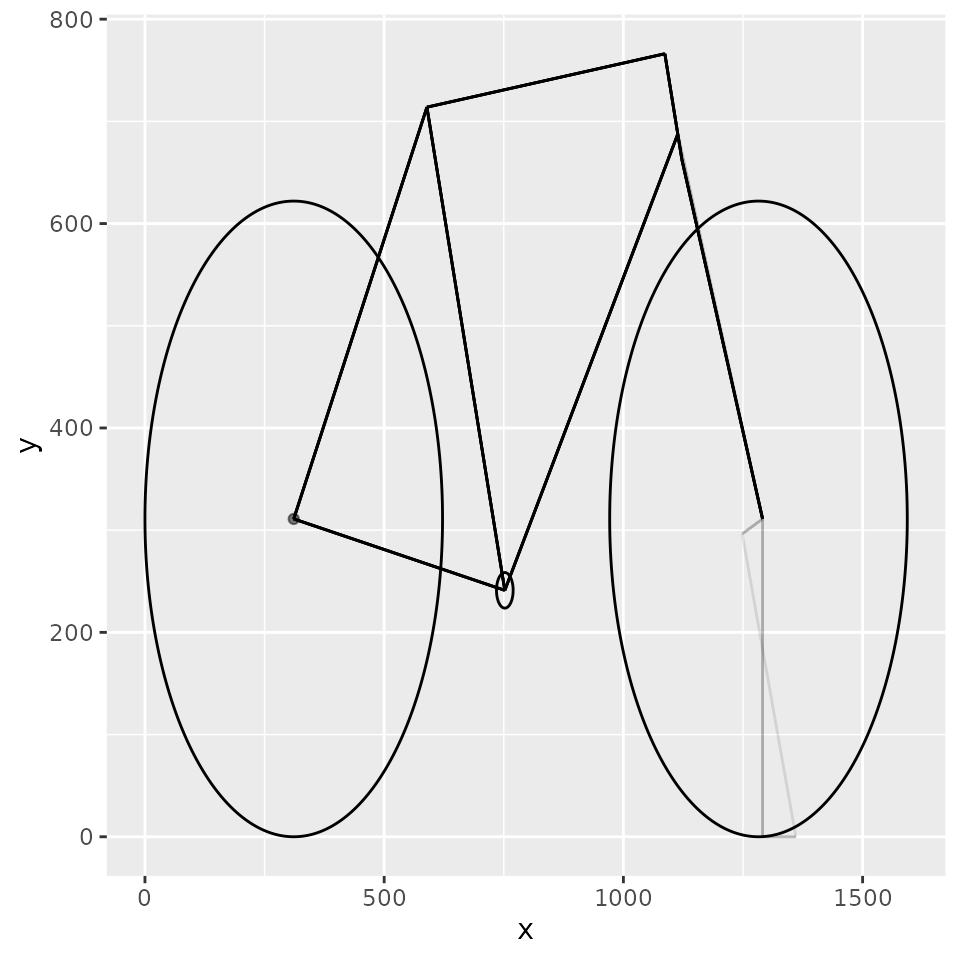
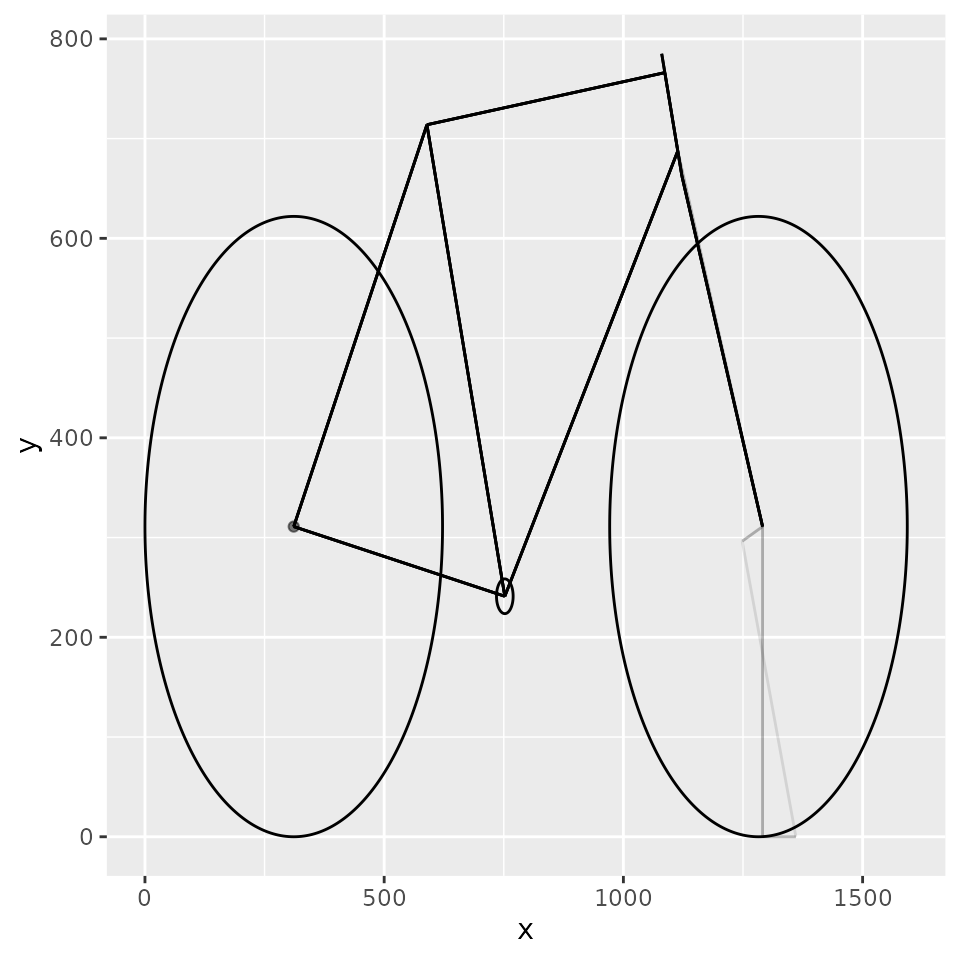
Built site for bicycle: 0.0.0.9000@5c9bf0c

diff --git a/articles/bicycle.html b/articles/bicycle.html
@@ -264,7 +264,8 @@
   <span class="fu"><a href="../reference/find_ht_extension_and_add_true_fork.html">find_ht_extension_and_add_true_fork</a></span><span class="op">(</span><span class="op">)</span>
 <span class="co">#&gt; Pythagoras! 1</span>
 <span class="co">#&gt; h is af 1</span>
-<span class="va">df_slantsix</span> <span class="op"><a href="https://magrittr.tidyverse.org/reference/pipe.html">%&gt;%</a></span> <span class="fu">knitr</span><span class="fu">::</span><span class="fu"><a href="https://rdrr.io/pkg/knitr/man/kable.html">kable</a></span><span class="op">(</span>digits <span class="op">=</span> <span class="fl">0</span><span class="op">)</span></code></pre></div>
+<span class="va">df_slantsix</span> <span class="op"><a href="https://magrittr.tidyverse.org/reference/pipe.html">%&gt;%</a></span> 
+  <span class="fu">knitr</span><span class="fu">::</span><span class="fu"><a href="https://rdrr.io/pkg/knitr/man/kable.html">kable</a></span><span class="op">(</span>digits <span class="op">=</span> <span class="fl">0</span><span class="op">)</span></code></pre></div>
 <table class="table">
 <colgroup>
 <col width="7%">
@@ -344,17 +345,26 @@
 </tr>
 </tbody>
 </table>
+<div id="welded-frames" class="section level2">
+<h2 class="hasAnchor">
+<a href="#welded-frames" class="anchor"></a>Welded frames</h2>
+<p>In a lugged frame the top of the head tube is where the top of the TT-HT lug ring is. The top of the seat tube is where the top of the ST-TT lug is. By contrast, in welded frames you have some discretion. Though the full length of the head tube is derived, how much of it you set aside for extending it above the point where the TT meets it is up to you. The same goes for the seat tube. How much height you add to the head tube matters because it affects the frame reach calculation. Let’s pretend that we want to the head tube to extend 20 mm above the center of the top tube joint:</p>
+<div class="sourceCode" id="cb6"><pre class="downlit sourceCode r">
+<code class="sourceCode R"><span class="va">df_slantsix</span> <span class="op">&lt;-</span> <span class="va">df_slantsix</span> <span class="op"><a href="https://magrittr.tidyverse.org/reference/pipe.html">%&gt;%</a></span> 
+  <span class="fu"><a href="../reference/add_tube_extension.html">add_tube_extension</a></span><span class="op">(</span>tube <span class="op">=</span> <span class="st">'ht_triangle'</span>, t_extension <span class="op">=</span> <span class="fl">20</span><span class="op">)</span></code></pre></div>
+</div>
 <div id="completing-the-picture" class="section level2">
 <h2 class="hasAnchor">
 <a href="#completing-the-picture" class="anchor"></a>Completing the picture</h2>
 <p>Here’s what the frame looks like now:</p>
-<div class="sourceCode" id="cb6"><pre class="downlit sourceCode r">
+<div class="sourceCode" id="cb7"><pre class="downlit sourceCode r">
 <code class="sourceCode R"><span class="va">df_slantsix</span> <span class="op"><a href="https://magrittr.tidyverse.org/reference/pipe.html">%&gt;%</a></span> 
   <span class="fu"><a href="../reference/draw_the_bicycle.html">draw_the_bicycle</a></span><span class="op">(</span><span class="op">)</span> <span class="op"><a href="https://magrittr.tidyverse.org/reference/pipe.html">%&gt;%</a></span> 
   <span class="fu"><a href="../reference/add_the_fork_rake_to_the_drawing.html">add_the_fork_rake_to_the_drawing</a></span><span class="op">(</span><span class="va">df_slantsix</span><span class="op">)</span> <span class="op"><a href="https://magrittr.tidyverse.org/reference/pipe.html">%&gt;%</a></span> 
   <span class="fu"><a href="../reference/draw_the_true_fork.html">draw_the_true_fork</a></span><span class="op">(</span><span class="va">df_slantsix</span><span class="op">)</span> <span class="op"><a href="https://magrittr.tidyverse.org/reference/pipe.html">%&gt;%</a></span> 
   <span class="fu"><a href="../reference/add_the_wheels.html">add_the_wheels</a></span><span class="op">(</span><span class="va">df_slantsix</span><span class="op">)</span> <span class="op"><a href="https://magrittr.tidyverse.org/reference/pipe.html">%&gt;%</a></span> 
   <span class="fu"><a href="../reference/add_the_fork_trail.html">add_the_fork_trail</a></span><span class="op">(</span><span class="va">df_slantsix</span><span class="op">)</span> <span class="op"><a href="https://magrittr.tidyverse.org/reference/pipe.html">%&gt;%</a></span> 
+  <span class="fu"><a href="../reference/add_the_tube_extensions_to_the_drawing.html">add_the_tube_extensions_to_the_drawing</a></span><span class="op">(</span><span class="va">df_slantsix</span><span class="op">)</span> <span class="op"><a href="https://magrittr.tidyverse.org/reference/pipe.html">%&gt;%</a></span> 
   <span class="fu"><a href="https://rdrr.io/r/base/print.html">print</a></span><span class="op">(</span><span class="op">)</span></code></pre></div>
 <p><img src="bicycle_files/figure-html/big_picture-1.png" width="480"></p>
 </div>
@@ -379,7 +389,7 @@
 <h1 class="hasAnchor">
 <a href="#putting-it-all-together" class="anchor"></a>Putting it all together</h1>
 <p>A wrapper that will return a tibble of frame dimensions, a named list of additional metrics of interest, and a picture would be nice, because it would allow tight control over the inputs, so we don’t run the risk that we enter one HT angle in one place, and another somewhere else. That is what <code><a href="../reference/big_bicycle.html">big_bicycle()</a></code> does.</p>
-<div class="sourceCode" id="cb7"><pre class="downlit sourceCode r">
+<div class="sourceCode" id="cb8"><pre class="downlit sourceCode r">
 <code class="sourceCode R"><span class="va">goods</span> <span class="op">&lt;-</span> <span class="fu"><a href="../reference/big_bicycle.html">big_bicycle</a></span><span class="op">(</span><span class="op">)</span>
 <span class="co">#&gt; Joining, by = "st_triangle"</span>
 <span class="co">#&gt; Pythagoras! 1</span>
@@ -390,7 +400,7 @@
 </li>
 <li>the CS length shown here is the length of the projection (shadow) onto the frame plane; the chain stays stick out of the bottom bracket at an angle that is suitably wide so you can fit a rear wheel between the dropouts; because of this angle, a 450 mm chain stay will show up in the table below as a somewhat lower value in the row labeled <code>cs</code> – the wider the angle, the greater the difference.</li>
 </ul>
-<div class="sourceCode" id="cb8"><pre class="downlit sourceCode r">
+<div class="sourceCode" id="cb9"><pre class="downlit sourceCode r">
 <code class="sourceCode R"><span class="va">goods</span><span class="op">$</span><span class="va">data</span> <span class="op"><a href="https://magrittr.tidyverse.org/reference/pipe.html">%&gt;%</a></span> 
   <span class="fu">tibble</span><span class="fu">::</span><span class="fu"><a href="https://tibble.tidyverse.org/reference/add_column.html">add_column</a></span><span class="op">(</span>dim <span class="op">=</span> <span class="fu"><a href="https://rdrr.io/r/base/names.html">names</a></span><span class="op">(</span><span class="va">.</span><span class="op">$</span><span class="va">st_triangle</span><span class="op">)</span><span class="op">)</span> <span class="op"><a href="https://magrittr.tidyverse.org/reference/pipe.html">%&gt;%</a></span> 
   <span class="fu">tidyr</span><span class="fu">::</span><span class="fu"><a href="https://tidyr.tidyverse.org/reference/pivot_longer.html">pivot_longer</a></span><span class="op">(</span><span class="op">!</span><span class="va">dim</span><span class="op">)</span> <span class="op"><a href="https://magrittr.tidyverse.org/reference/pipe.html">%&gt;%</a></span> 
@@ -417,11 +427,11 @@
 <span class="co">#&gt; 12 st       500</span>
 <span class="co">#&gt; 13 tt       500</span></code></pre></div>
 <p>These lengths are represented graphically here:</p>
-<div class="sourceCode" id="cb9"><pre class="downlit sourceCode r">
+<div class="sourceCode" id="cb10"><pre class="downlit sourceCode r">
 <code class="sourceCode R"><span class="fu"><a href="https://rdrr.io/r/base/print.html">print</a></span><span class="op">(</span><span class="va">goods</span><span class="op">$</span><span class="va">picture</span><span class="op">)</span></code></pre></div>
 <p><img src="bicycle_files/figure-html/show_final_picture-1.png" width="480"></p>
 <p>And here are the other sundry metrics:</p>
-<div class="sourceCode" id="cb10"><pre class="downlit sourceCode r">
+<div class="sourceCode" id="cb11"><pre class="downlit sourceCode r">
 <code class="sourceCode R"><span class="fu">tibble</span><span class="fu">::</span><span class="fu"><a href="https://tibble.tidyverse.org/reference/tibble.html">tibble</a></span><span class="op">(</span>name <span class="op">=</span> <span class="fu"><a href="https://rdrr.io/r/base/names.html">names</a></span><span class="op">(</span><span class="va">goods</span><span class="op">$</span><span class="va">metrics</span><span class="op">)</span>, 
                value <span class="op">=</span> <span class="va">goods</span><span class="op">$</span><span class="va">metrics</span><span class="op">)</span> <span class="op"><a href="https://magrittr.tidyverse.org/reference/pipe.html">%&gt;%</a></span> 
   <span class="fu">knitr</span><span class="fu">::</span><span class="fu"><a href="https://rdrr.io/pkg/knitr/man/kable.html">kable</a></span><span class="op">(</span><span class="op">)</span></code></pre></div>
@@ -463,13 +473,21 @@
 <td align="left">Effective top tube length</td>
 <td align="right">500</td>
 </tr>
+<tr class="odd">
+<td align="left">Frame stack.vertical_projection</td>
+<td align="right">473</td>
+</tr>
+<tr class="even">
+<td align="left">Frame reach.horizontal_projection</td>
+<td align="right">337</td>
+</tr>
 </tbody>
 </table>
 <div id="comparing-frame-designs" class="section level2">
 <h2 class="hasAnchor">
 <a href="#comparing-frame-designs" class="anchor"></a>Comparing frame designs</h2>
 <p>What if you had a frame with a classic horizontal top tube, and another with a slant top tube but a shorter seat tube? And what if the chain stay lengths and fork rakes were different too? Or the seat tube angle? Or the tire size? Here’s a way to compare them:</p>
-<div class="sourceCode" id="cb11"><pre class="downlit sourceCode r">
+<div class="sourceCode" id="cb12"><pre class="downlit sourceCode r">
 <code class="sourceCode R"><span class="co"># Put them all into one container data frame. Each frame spec has</span>
 <span class="co"># its own name in the df column and these names will encode the </span>
 <span class="co"># colors. In other words, you can stack any number of frame</span>
@@ -556,7 +574,7 @@
     <span class="fu"><a href="https://ggplot2.tidyverse.org/reference/guides.html">guides</a></span><span class="op">(</span>color <span class="op">=</span> <span class="fu"><a href="https://ggplot2.tidyverse.org/reference/guide_legend.html">guide_legend</a></span><span class="op">(</span>title <span class="op">=</span> <span class="st">""</span>,<span class="op">)</span><span class="op">)</span>
 <span class="op">}</span></code></pre></div>
 <p>Now let’s compare them:</p>
-<div class="sourceCode" id="cb12"><pre class="downlit sourceCode r">
+<div class="sourceCode" id="cb13"><pre class="downlit sourceCode r">
 <code class="sourceCode R"><span class="fu"><a href="https://rdrr.io/r/base/print.html">print</a></span><span class="op">(</span><span class="fu">compare_two_bikes</span><span class="op">(</span><span class="va">bicycles</span><span class="op">)</span><span class="op">)</span></code></pre></div>
 <p><img src="bicycle_files/figure-html/compare_them-1.png" width="480"></p>
 </div>

diff --git a/reference/add_the_tube_extensions_to_the_drawing.html b/reference/add_the_tube_extensions_to_the_drawing.html
@@ -6,7 +6,7 @@
 <meta http-equiv="X-UA-Compatible" content="IE=edge">
 <meta name="viewport" content="width=device-width, initial-scale=1.0">
 
-<title>Get some useful frame metrics — get_all_the_metrics • bicycle</title>
+<title>Add any tube extensions to the frame drawing — add_the_tube_extensions_to_the_drawing • bicycle</title>
 
 
 <!-- jquery -->
@@ -39,9 +39,13 @@
 
 
 
-<meta property="og:title" content="Get some useful frame metrics — get_all_the_metrics" />
-<meta property="og:description" content="Once you have a frame design df you can use this to derive
-some metrics that will help gauge the ride characteristics." />
+<meta property="og:title" content="Add any tube extensions to the frame drawing — add_the_tube_extensions_to_the_drawing" />
+<meta property="og:description" content="If this is a welded frame, you can set the difference between
+the top of the head tube and the point where the top tube joins
+the head tube (measured center-to-center). You can also set the
+difference between the top of the seat tube and the center of
+the point where the top tube meets the seat tube. Both of these
+differences are &quot;tube extensions&quot; that, if set, can be drawn." />
 
 
 
@@ -107,36 +111,42 @@ some metrics that will help gauge the ride characteristics." />
 <div class="row">
   <div class="col-md-9 contents">
     <div class="page-header">
-    <h1>Get some useful frame metrics</h1>
+    <h1>Add any tube extensions to the frame drawing</h1>
     
-    <div class="hidden name"><code>get_all_the_metrics.Rd</code></div>
+    <div class="hidden name"><code>add_the_tube_extensions_to_the_drawing.Rd</code></div>
     </div>
 
     <div class="ref-description">
-    <p>Once you have a frame design <code>df</code> you can use this to derive
-some metrics that will help gauge the ride characteristics.</p>
+    <p>If this is a welded frame, you can set the difference between
+the top of the head tube and the point where the top tube joins
+the head tube (measured center-to-center). You can also set the
+difference between the top of the seat tube and the center of
+the point where the top tube meets the seat tube. Both of these
+differences are "tube extensions" that, if set, can be drawn.</p>
     </div>
 
-    <pre class="usage"><span class='fu'>get_all_the_metrics</span><span class='op'>(</span>
+    <pre class="usage"><span class='fu'>add_the_tube_extensions_to_the_drawing</span><span class='op'>(</span>
+  <span class='va'>x</span>,
   <span class='va'>df</span>,
-  angle_btw_css <span class='op'>=</span> <span class='fl'>14</span>,
   wheel_diameter <span class='op'>=</span> <span class='fl'>622</span>,
-  crank_arm_length <span class='op'>=</span> <span class='fl'>170</span>,
-  old_spacing <span class='op'>=</span> <span class='fl'>130</span>,
-  bbs_width <span class='op'>=</span> <span class='fl'>68</span>
+  c <span class='op'>=</span> <span class='fu'><a href='https://rdrr.io/r/base/AsIs.html'>I</a></span><span class='op'>(</span><span class='st'>"black"</span><span class='op'>)</span>,
+  alpha_factor <span class='op'>=</span> <span class='fl'>1</span>
 <span class='op'>)</span></pre>
 
     <h2 class="hasAnchor" id="arguments"><a class="anchor" href="#arguments"></a>Arguments</h2>
     <table class="ref-arguments">
     <colgroup><col class="name" /><col class="desc" /></colgroup>
     <tr>
+      <th>x</th>
+      <td><p>An existing ggplot object. At a minimum, it's a scatter plot of
+the rear dropout center. But it can be a bicycle frame of a previous design
+already drawn, onto which you can now overlay a new design using the dims
+in <code>df</code> for easy comparison.</p></td>
+    </tr>
+    <tr>
       <th>df</th>
       <td><p>A frame design tibble, such as the minimal one drawn by <code><a href='wrap_frame_dims.html'>wrap_frame_dims()</a></code>
 or the one augmented by <code><a href='find_ht_extension_and_add_true_fork.html'>find_ht_extension_and_add_true_fork()</a></code>.</p></td>
-    </tr>
-    <tr>
-      <th>angle_btw_css</th>
-      <td><p>Angle between chain stays, in degrees.</p></td>
     </tr>
     <tr>
       <th>wheel_diameter</th>
@@ -145,31 +155,26 @@ of a 700c wheel. To see the effect of the tire width, add 2 x tire width in mill
 -- i.e. specify <code>wheel_diameter = 622 + 2 * 32</code> for a 32 mm tire.</p></td>
     </tr>
     <tr>
-      <th>crank_arm_length</th>
-      <td><p>The crank arm length in millimeters. Typical values are 165, 170 and 175 for adult riders.</p></td>
+      <th>c</th>
+      <td><p>The color of the line segments.</p></td>
     </tr>
     <tr>
-      <th>old_spacing</th>
-      <td><p>Over-locknut-dimension (hub width) in millimeters.</p></td>
-    </tr>
-    <tr>
-      <th>bbs_width</th>
-      <td><p>Bottom bracket shell width. It's standard -- 68 mm is typical for road bikes.</p></td>
+      <th>alpha_factor</th>
+      <td><p>The transparency of the line segments, <code>alpha</code>.</p></td>
     </tr>
     </table>
 
     <h2 class="hasAnchor" id="value"><a class="anchor" href="#value"></a>Value</h2>
 
-    <p>A named vector</p>
+    <p>A ggplot object.</p>
     <h2 class="hasAnchor" id="details"><a class="anchor" href="#details"></a>Details</h2>
 
-    <p>Effective top tube length is measured from the center of the point
-where the top tube meets the head tube to the center of the seat post,
-which in the drawing rendered by <code><a href='add_the_ett_to_the_drawing.html'>add_the_ett_to_the_drawing()</a></code>
-looks like a faint line that continues the seat tube. An alternate way
-is to measure it from the top of the head tube to the center of the seat
-post. The two are the same if the head tube and the seat tube have the
-same angle, because they are just the long sides of a parallelogram.</p>
+    <p>A complete <code>df</code> tibble as drawn by <code><a href='wrap_frame_dims.html'>wrap_frame_dims()</a></code>
+is necessary. If it contains no tube extensions, the <code>x</code> ggplot
+object will be returned unchanged.</p>
+    <h2 class="hasAnchor" id="see-also"><a class="anchor" href="#see-also"></a>See also</h2>
+
+    <div class='dont-index'><p><code><a href='https://ggplot2.tidyverse.org/reference/ggplot.html'>ggplot2::ggplot()</a></code></p></div>
 
   </div>
   <div class="col-md-3 hidden-xs hidden-sm" id="pkgdown-sidebar">

diff --git a/reference/index.html b/reference/index.html
@@ -161,6 +161,12 @@
       </tr><tr>
         
         <td>
+          <p><code><a href="add_the_tube_extensions_to_the_drawing.html">add_the_tube_extensions_to_the_drawing()</a></code> </p>
+        </td>
+        <td><p>Add any tube extensions to the frame drawing</p></td>
+      </tr><tr>
+        
+        <td>
           <p><code><a href="add_the_wheels.html">add_the_wheels()</a></code> </p>
         </td>
         <td><p>Add the wheels to a frame drawing</p></td>
